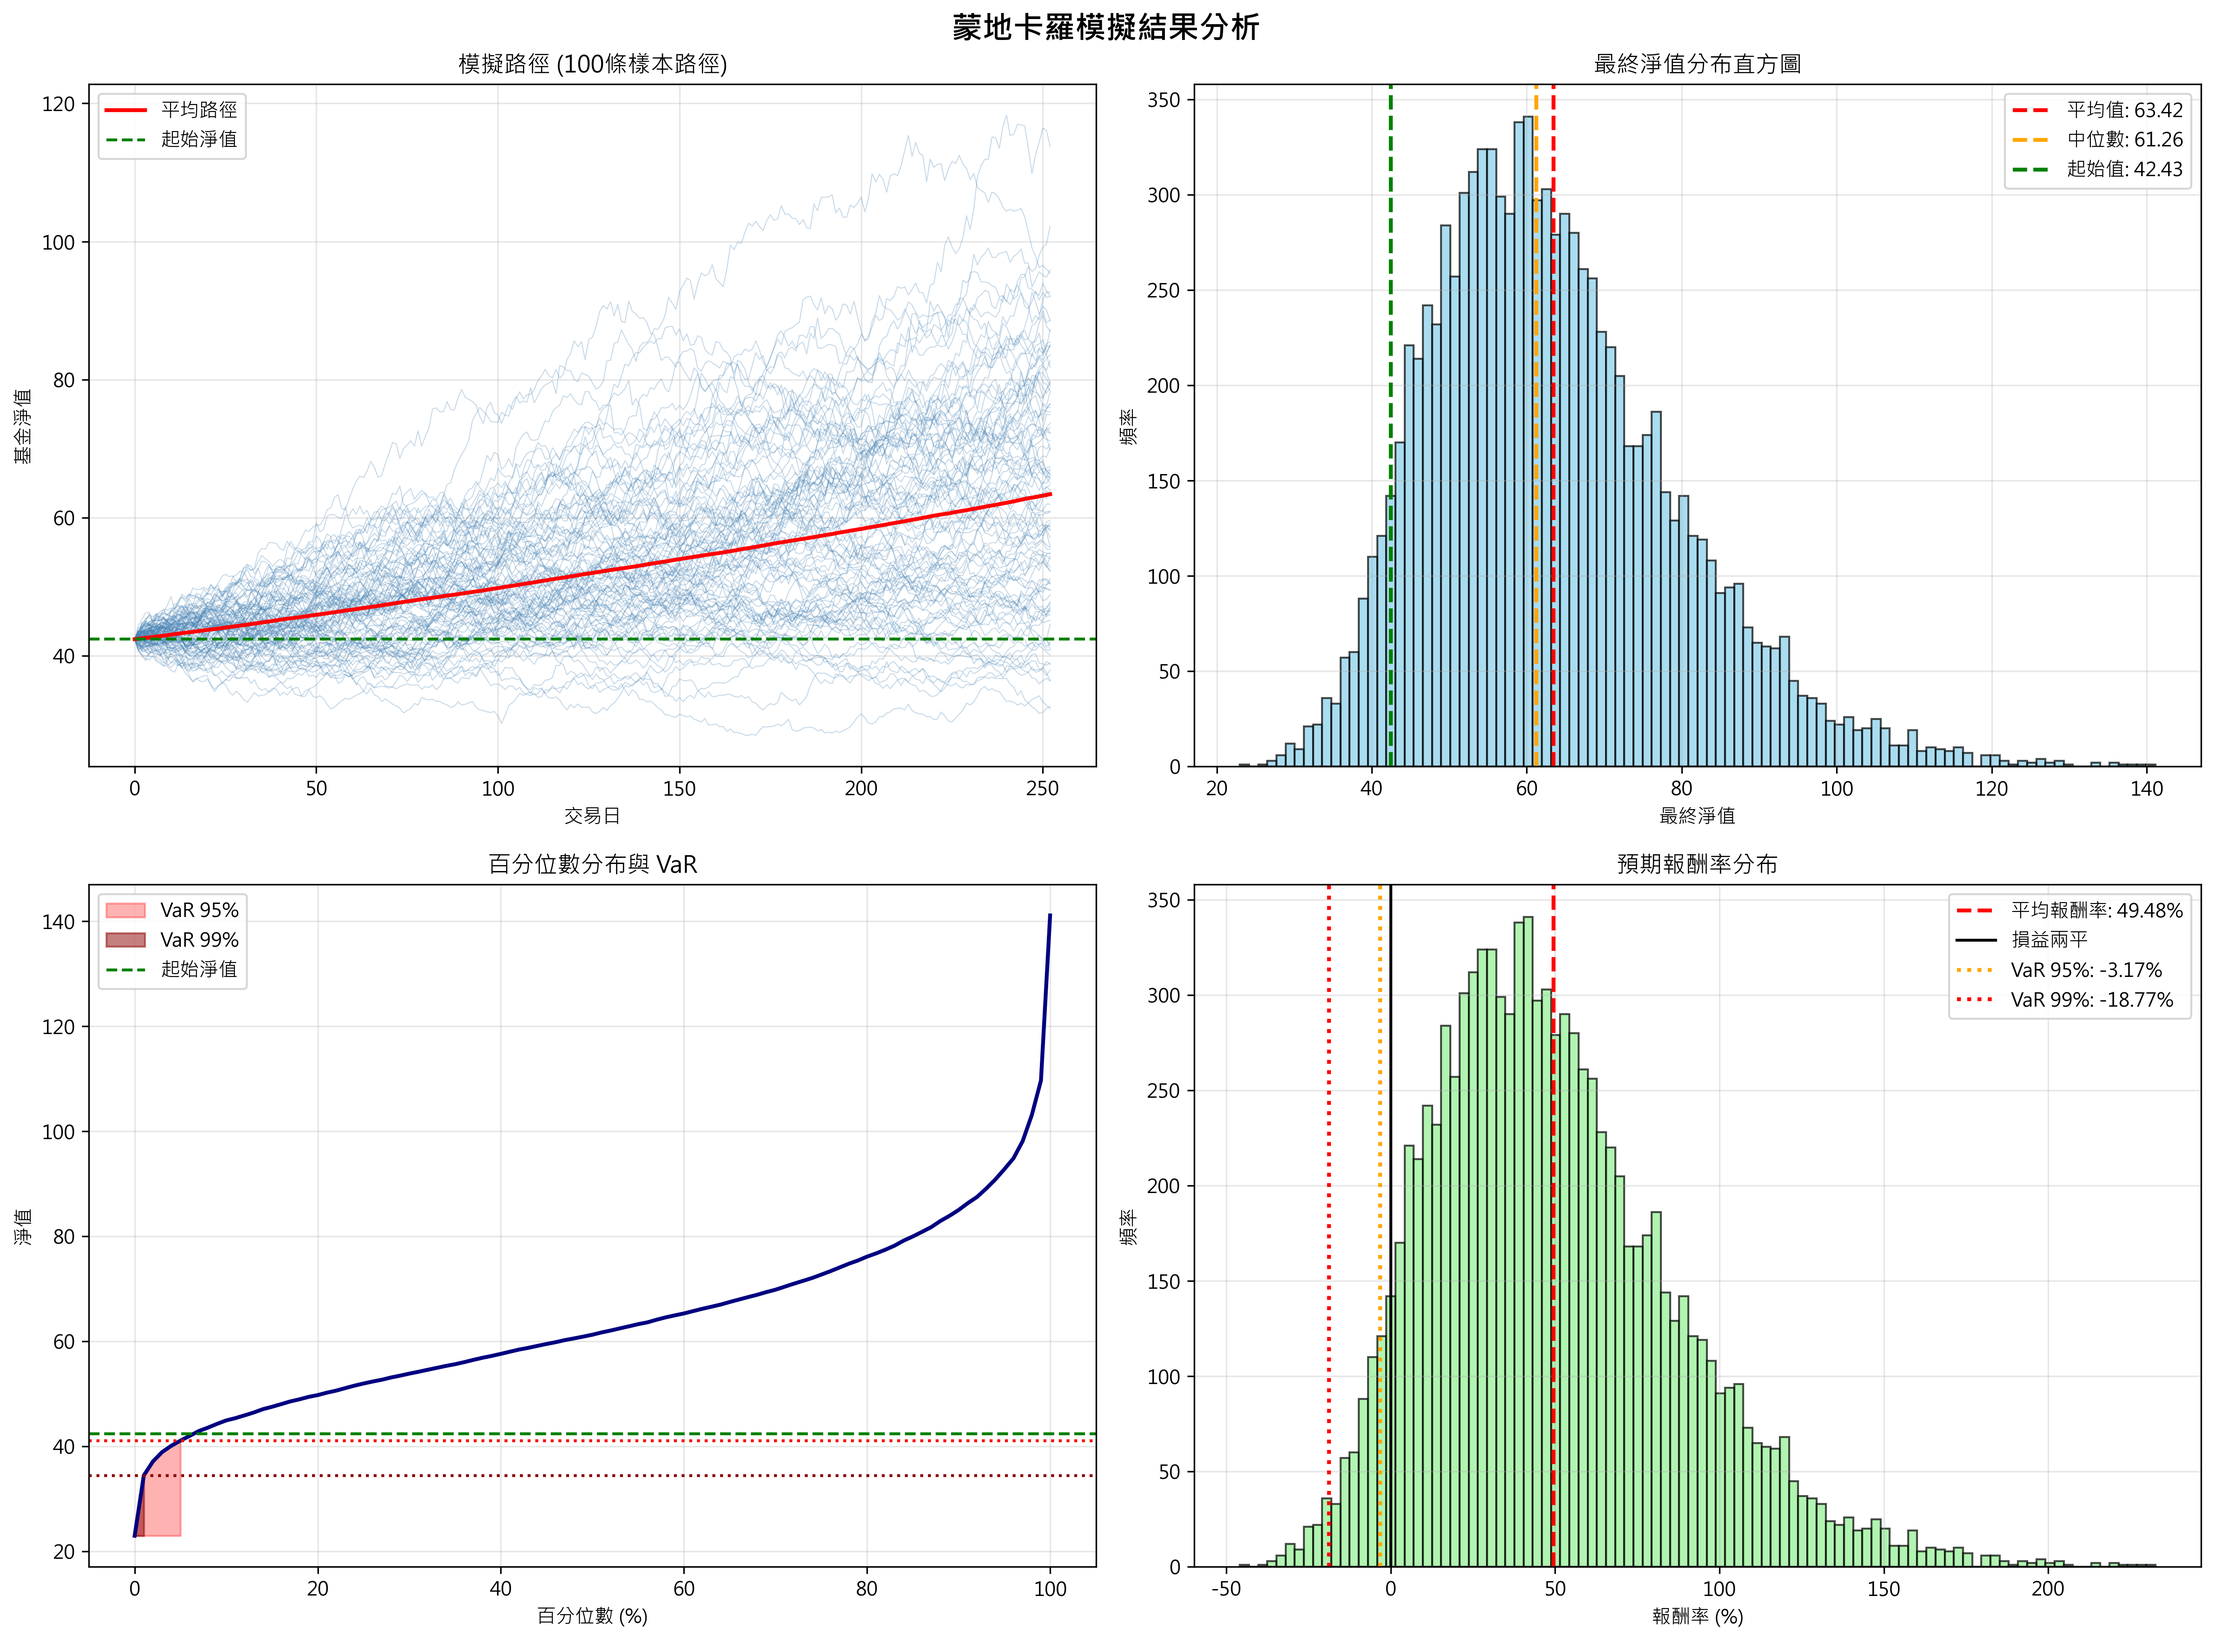
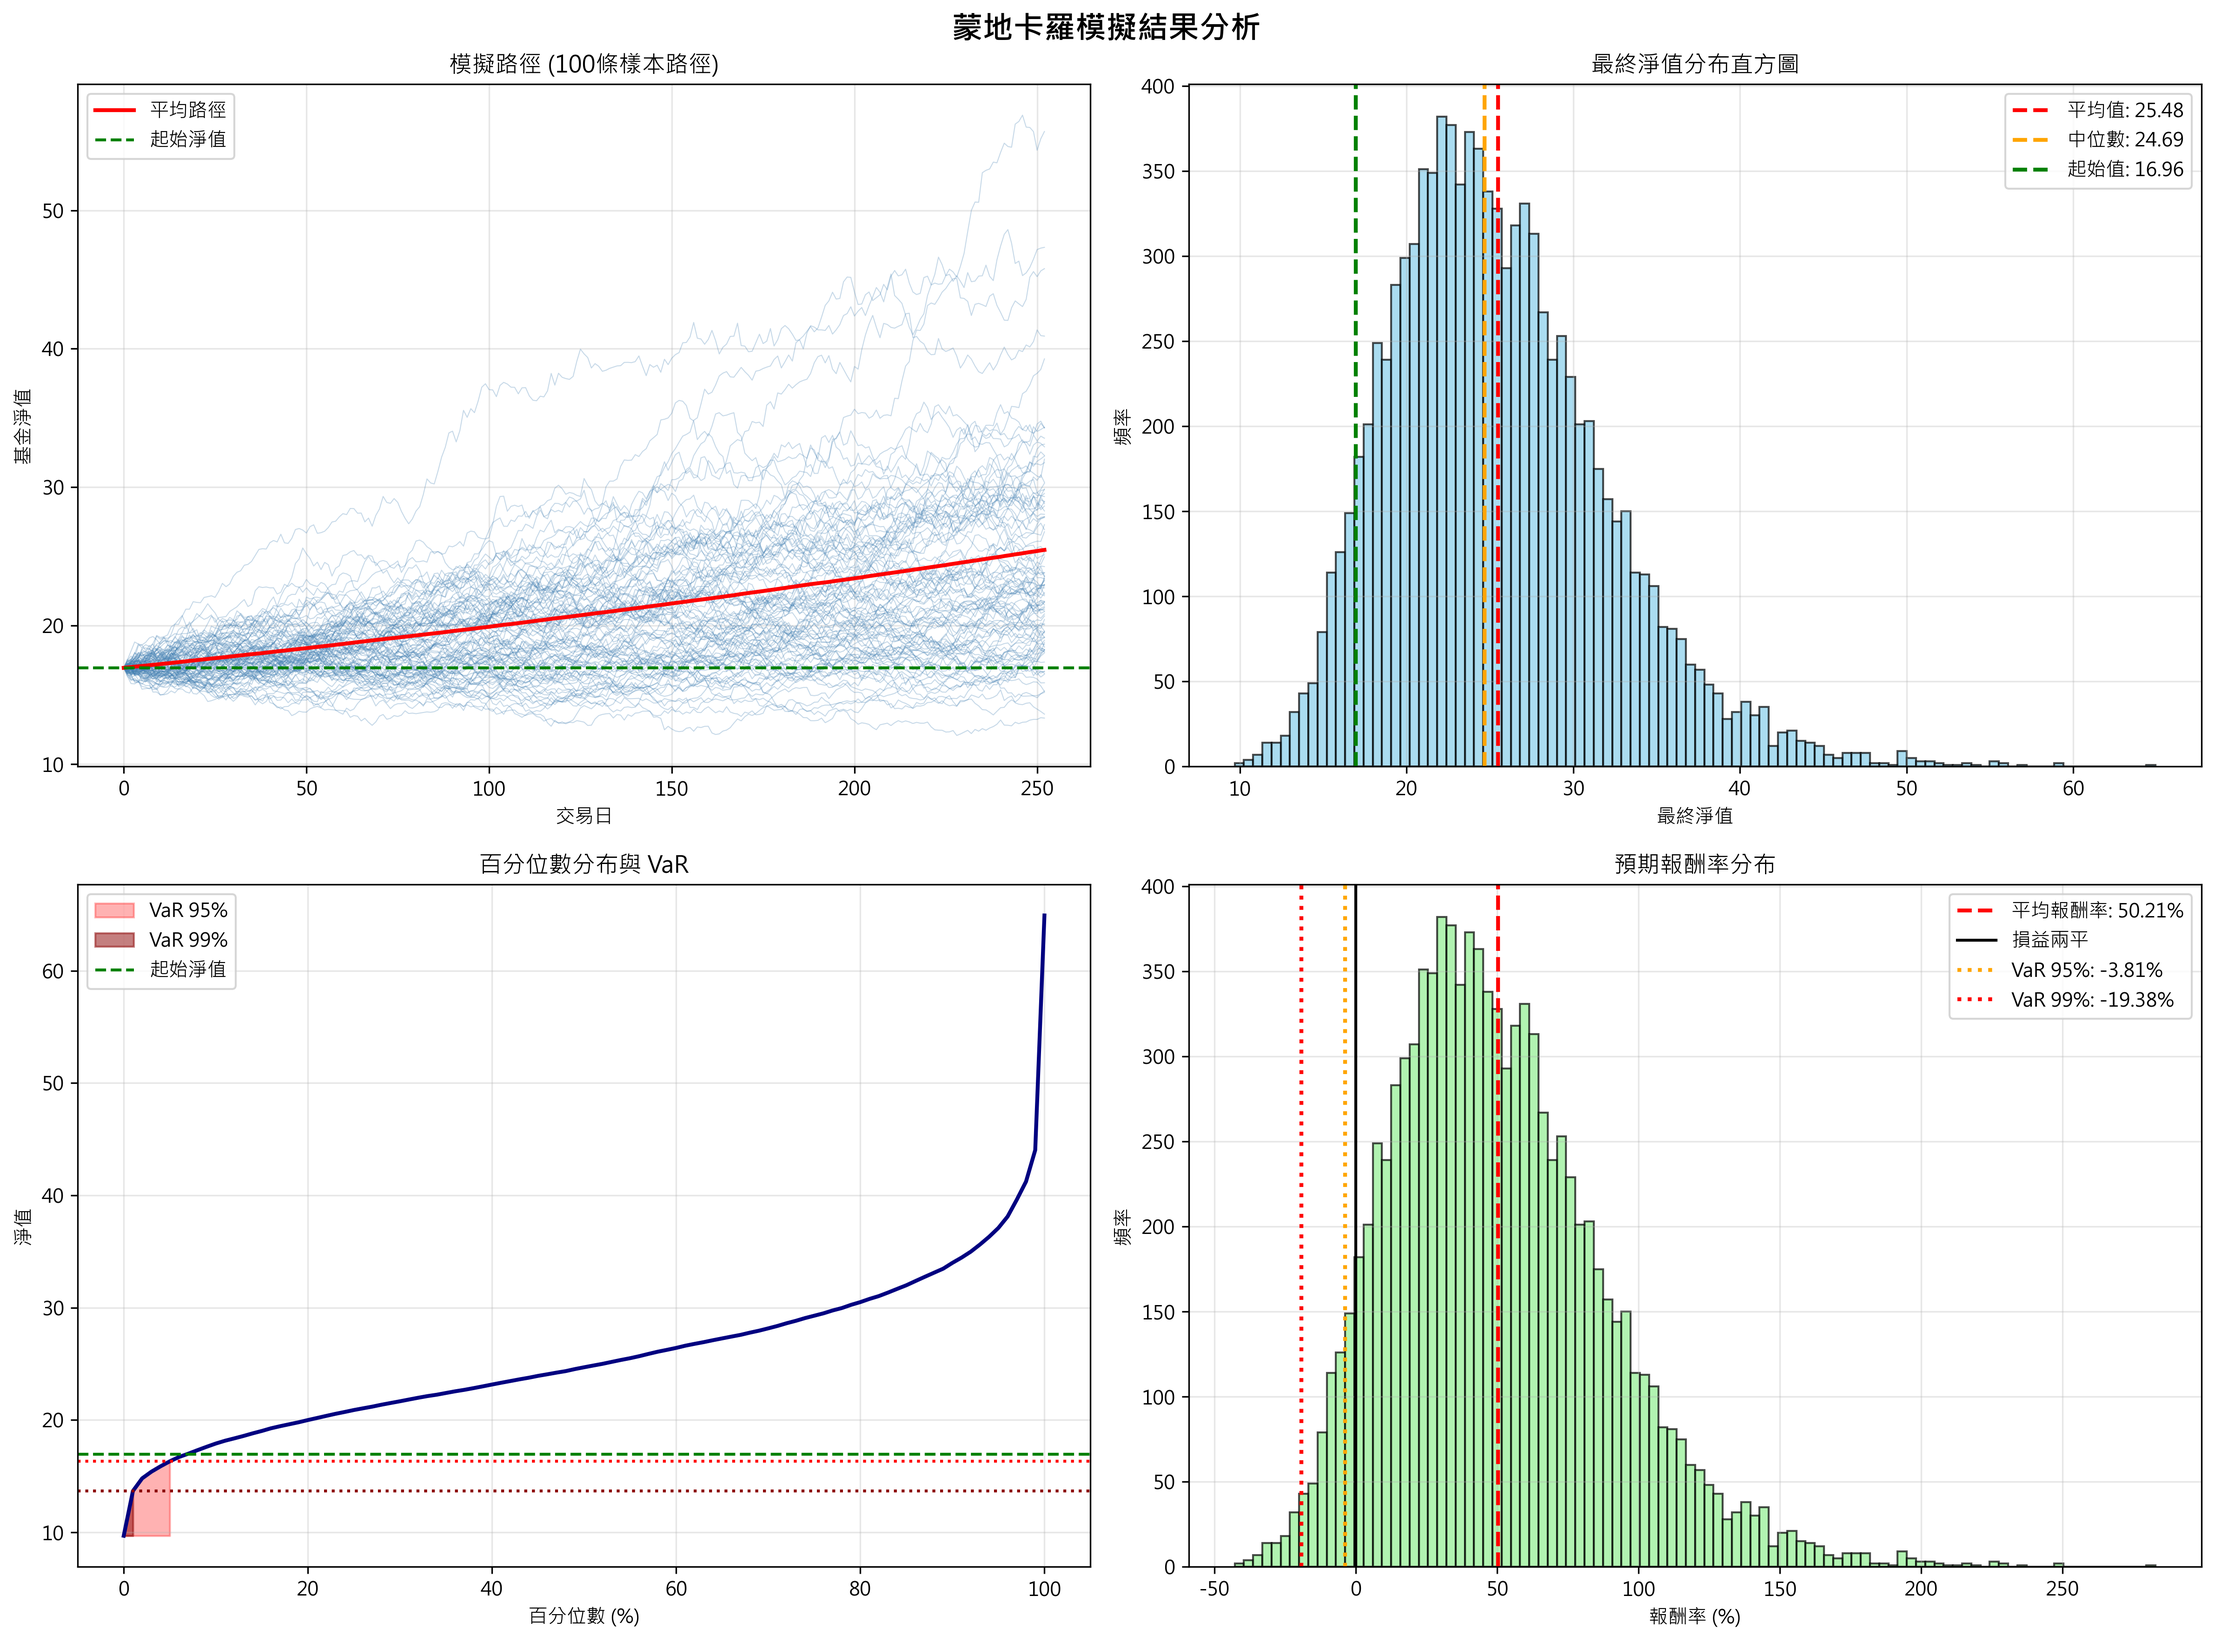
update initial_nav

diff --git a/index.py b/index.py
@@ -147,7 +147,7 @@ print("\n正在執行蒙地卡羅模擬...")
 # 蒙地卡羅參數設定
 n_simulations = 10000  # 模擬次數
 n_days = 252  # 模擬天數 (1年交易日)
-initial_nav = df_fund['Fund_NAV'].iloc[-1]  # 使用最新淨值作為起始點
+initial_nav = df_fund['Fund_NAV'].iloc[0]  # 使用最舊淨值作為起始點
 
 # 基於歷史數據計算參數
 daily_return = df_merge['Fund_Ret'].mean()  # 日均報酬率
